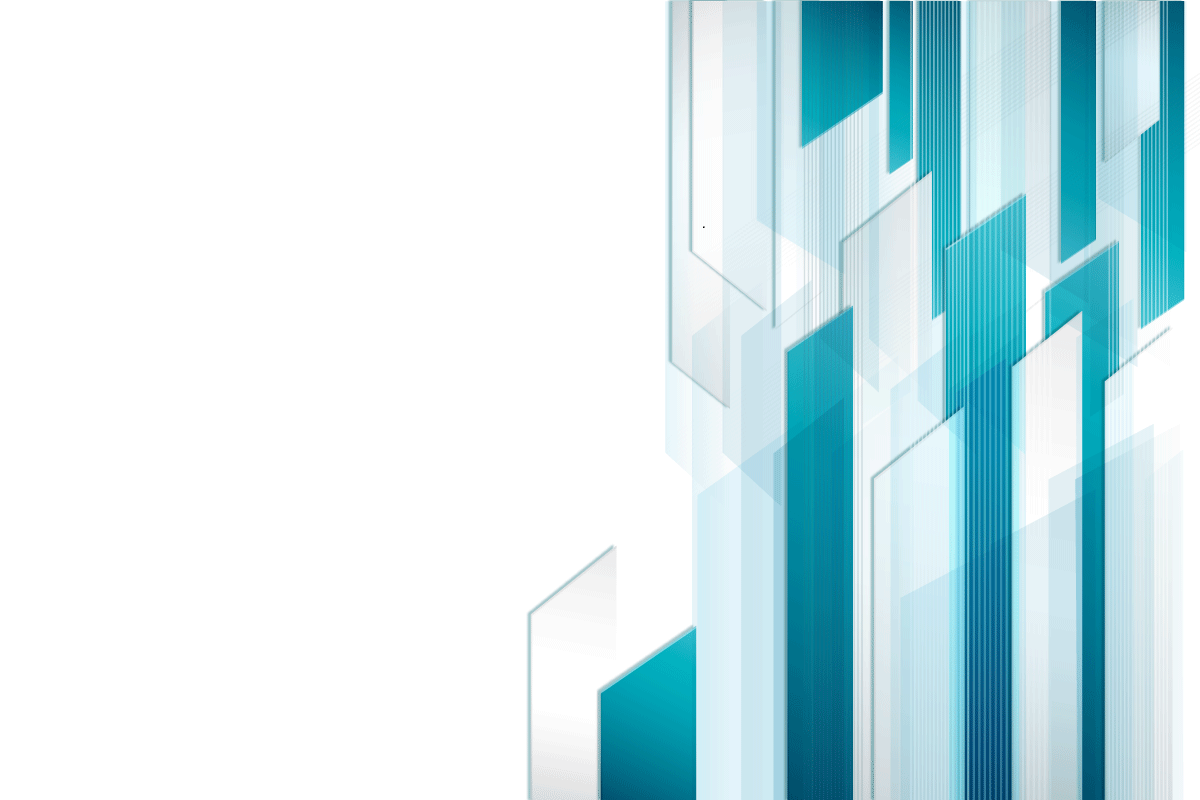
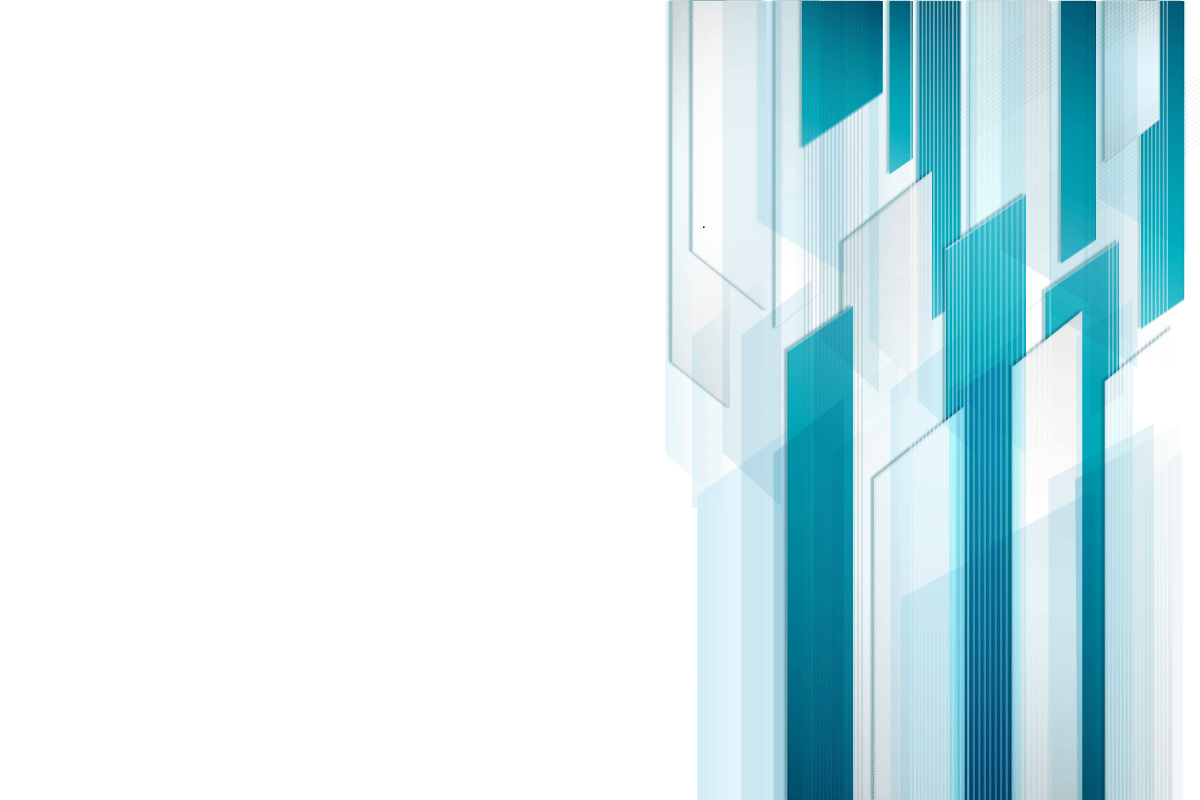
Background fixed

Changed region(s): [[0.4317, 0.75, 0.5858, 1.0], [0.4933, 0.6875, 0.5242, 0.7188], [0.4625, 0.7188, 0.4933, 0.75]]

diff --git a/Nosotras.css b/Nosotras.css
@@ -1,7 +1,6 @@
 body {  
     background-image: url('./Background/blue2.png');
-    background-size: auto 150%;
-}
+    background-size: 120% auto;}
 
 @font-face {
     font-family:"Titulos";

diff --git a/Endless.css b/Endless.css
@@ -1,6 +1,6 @@
 body {  
     background-image: url('./Background/blue2.png');
-    background-size: auto 150%;
+    background-size: 120% auto;
 }
 
 @font-face {

diff --git a/Portafolio.css b/Portafolio.css
@@ -1,6 +1,6 @@
 body {  
     background-image: url('./Background/blue2.png');
-    background-size: auto 150%;
+    background-size: 120% auto;
 }
 
 @font-face {

diff --git a/Contacto.css b/Contacto.css
@@ -1,6 +1,6 @@
 body {  
     background-image: url('./Background/blue2.png');
-    background-size: auto 150%;
+    background-size: 120% auto;
 }
 
 

diff --git a/index.css b/index.css
@@ -1,6 +1,6 @@
 body {  
     background-image: url('./Background/blue2.png');
-    background-size: auto 150%;
+    background-size: 120% auto;
 }
 
 
